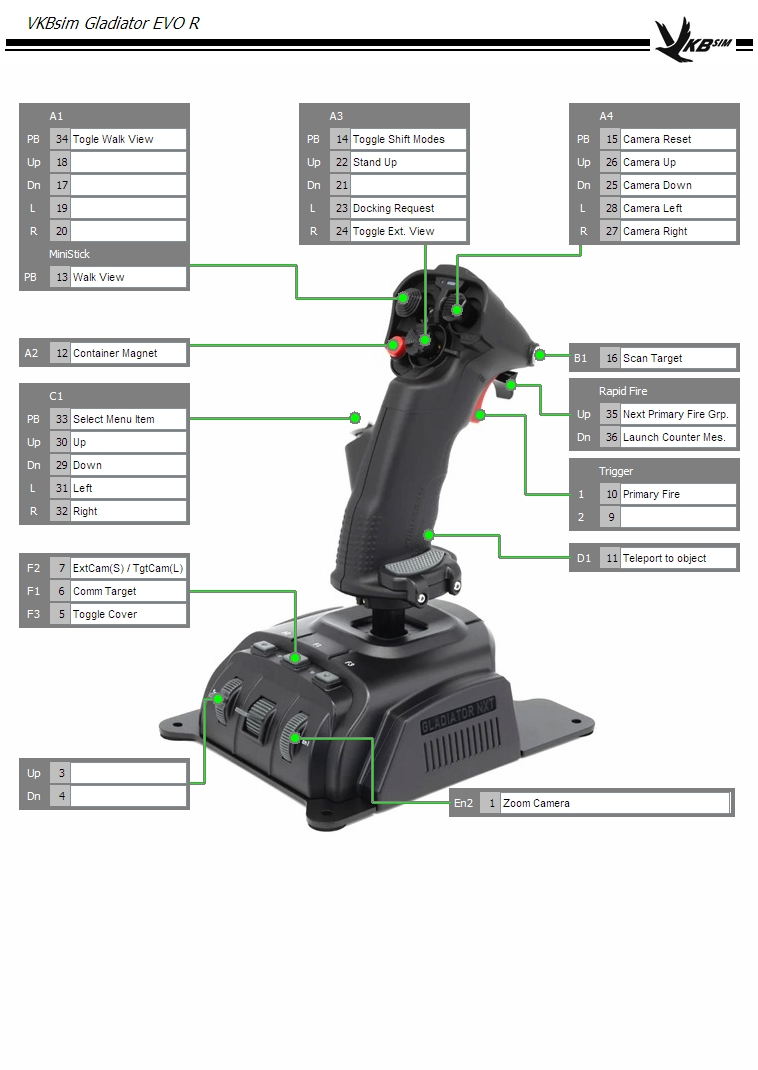
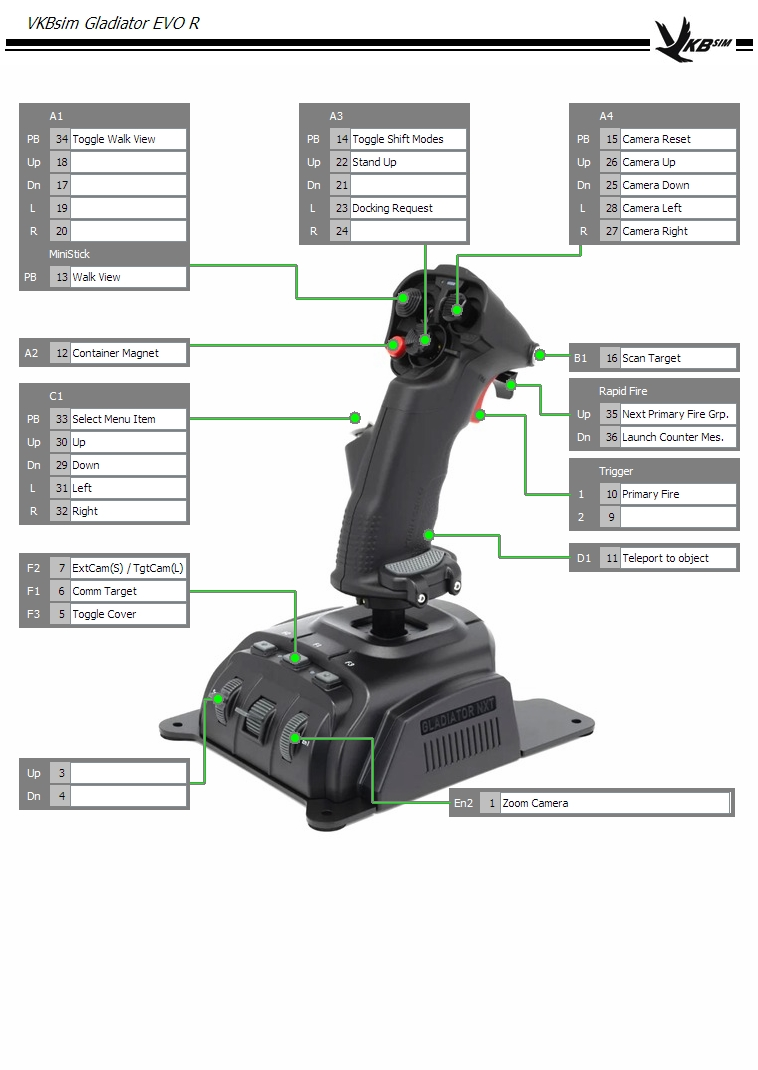
The latest and greatest

diff --git a/README.md b/README.md
@@ -2,26 +2,15 @@
 
 ## WARNING
 
-MAKE SURE YOU HAVE BACKUPS OF YOUR VKB CONFIG FILES AND X4 INPUT MAPS BEFORE YOU USE THESE SCRIPTS.  THE AUTHOR IS NOT RESPONSIBLE IF YOUR ONE AND ONLY COPY OF A FILE IS RUINED.
+MAKE SURE YOU HAVE BACKUPS OF YOUR VKB CONFIG FILES AND X4 INPUT MAPS BEFORE YOU USE THESE SCRIPTS OR FILES.  THE AUTHOR IS NOT RESPONSIBLE IF YOUR ONE AND ONLY COPY OF A FILE IS RUINED.
 
 ## Introduction
 
 This is my personal dual stick configuration of the [VKB Gladiator NTX EVO](https://www.vkbcontrollers.com/) joysticks for [X4: Foundations by Egosoft](https://www.egosoft.com).
 
-Many of the buttons on the sticks are not yet bound to in-game functions.  This is a work-in-progress and as I get more time with the sticks I will probably move things around.  See the CHANGELOG below for more details.
-
 This is built around two VKB Gladiator NTX EVO joysticks.  Both sticks use the premium grip.  The right hand stick is in the vertical configuration and used as the main directional stick.  The left hand stick is in the Omni Throttle configuration with the Y axis spring removed.
 
-I do not know if you can use my config files and apply them to the opposite hands without needing to modify it first.  If you can't, see the details below on how I've configured the sticks.
-
-## Conventions
-
-Here are some of the conventions I use in this README.
-
-- `[VKB]` -- References the VKB Joystick Configuration 
-- `[X4]` -- References the X4 input map 
-- `[FS]` -- Flight Stick 
-- `[TS]` -- Throttle Stick 
+You should be able to apply them to the opposite hands without needing to modify it first.  If you can't, see the details below on how I've configured the sticks.
 
 ## Instructions
 
@@ -45,177 +34,208 @@ In the X4 Controls menu use the Load Profile option to load the new configuratio
 
 ![Dual Stick X4 Configuration](./img/x4_controllers.jpg)
 
-### Scripts
+## Stick Configurations
 
-There are two scripts I wrote to help me move files around.  In the `.env_template` file you will see the environment variables used in the two scripts.  If you use `dotenv`, renaming this to `.env` and filling out the `replace_me` fields should allow you to use these scripts as well
+The X4 input map and the two VKB configuration files are intended to work together.  I've used the VKB configuration software to enable features such as tempo buttons (long press & short press do different things) and Shift Modes for even more options for the physical buttons.
 
-`copy_from_local.sh` Is used to copy the VKB config and X4 Input map from my local machine folders to the source code folder.  I used this after I make changes and want to sync this to GitHub.
+### Left Hand
 
-`copy_to_local.sh` Is used this to copy the files from the source code folder into place on my local machine.  It will attempt to create a time stamp backup in your destination folder before copying the files.
+I am going to assume that your Y axis spring has been removed and you are using this as a throttle.  In dead center the LED should flash RED.  Outside of dead center it should be solid green.
 
-## Configuration
+In the VKB sick configuration I've configured the throttle curve to slow down near center so we have better fine control of the throttle at low speeds like when docking.  It should feel a little "sticky" at zero.
 
-### VKB
+!["Throttle Curve Diagram"](img/VKB_axis_curve.png)
 
-#### Right Hand (Flight Control)
+Overall the left hand stick is fairly straight forward.  It focuses on target management and ship mode toggling.  I'm moving left to right as if you are viewing the left hand throttle stick.
 
-!["Flight Stick Configuration"](img/vkb_right_hand.png)
+Note: The image is a right-handed one, but the HAT configurations should match what is printed on the throttle housing.
 
-|Cell|Button|Virtual Button(s)|Function|Notes|
-|---|---|---|---|---|
-|Line 8 / Reg 2|B1|#16, #41|Tempo 2, short #16, long #41||
-|Line 6 / Reg 2|A3 Push|#14|Cycle Modes 00 -> 01 -> 02|The RGB LED switches Blue -> Green -> Red per mode|
-|Line 5 / Reg 3|A3 Down|#21, #49, #53|Modes 00 -> 01 -> 02||
-|Line 6 / Reg 3|A3 Up|#22, #50, #54|Modes 00 -> 01 -> 02||
-|Line 7 / Reg 3|A3 Left|#23, #51, #55|Modes 00 -> 01 -> 02||
-|Line 8 / Reg 3|A3 Right|#24, #52, #56|Modes 00 -> 01 -> 02||
+#### A4 HAT
 
-##### Description
+The A4 HAT focuses on basic targeting functions.  Pressing up will target objects the same way the `T` key does, so YMMV on how accurate it is.  Pressing the stick in will deselect your target.  Learn to leveraging the guidance toggle and the auto pilot toggle for quick navigation.
 
-There are two main changes on the flight stick.  
+- `Press` -- Deselects your target
+- `Up` -- Attempts to target what ever is in front of you `T` key style
+- `Down` -- Target the nearest enemy
+- `Left` -- Toggle AutoPilot
+- `Right` -- Toggle Guidance
 
-First, `B1` is a Tempo button with short and long configured as two virtual buttons.
+#### A3 HAT
 
-Second, `A3 Push` cycles through all three shift modes.  I'll go into further detail about the 3 modes in the X4 configuration section.  Shift mode 0 (default) has the led blue, Shift mode 1 will change the led to Green and is used for civilian deployables. Shift mode 2 will change the led to red and is used for combat deployables and orders.
+This center hat is all about ship mode management.  It has got the 4 main ship modes mapped one in each direction.  
 
-#### Left Hand (Throttle Control)
+Pressing in on the A3 HAT toggles flight assist.  As of the 7.5 Flight Model update I do not use flight assist nearly as much as I used to, but it is here for quick easy access for sick moves.
 
-!["Throttle Stick Configuration"](img/vkb_left_hand.png)
+- `Press` -- Toggle Flight Assist
+- `Up` -- Short Range Scan
+- `Down` -- Long Range Scan
+- `Right` -- SETA
 
-|Cell|Button|Virtual Button(s)|Function|Notes|
-|---|---|---|---|---|
-|Line 4 / Reg 2|A2|#12, #41|Tempo 2, short #12, long #41||
+#### A1 HAT
 
-Additionally the RGB LED is configured to flash red when the Y axis is in the center and solid green when it is not.  This has the effect that when your ship throttle is set to 0 you see a flashing red light and solid green while in motion.  I'm able to see the flashing in my peripheral vision so I've found this to be a useful indicator.
+This HAT is focused on advanced targeting options and walking.  Press the stick down to toggle walking mode on and off.  The small circular led will light up red when in walking mode.  The stick should then act like any controller stick in a FPS game.
 
-### X4: Foundations InputMap
+- `Press` -- Toggle walking mode
+- `Up` -- Next Target
+- `Down` -- Previous Target
+- `Left` -- Next Ship Component
+- `Right` -- Previous Ship Component
 
-My overall philosophy was to try and find a control scheme that allowed for great flight controls and made first person movement a breeze from the sticks.  On top of that, I've tried to group buttons and functions together as logically as I can.  I leverage Shift Modes to achieve some of these grouping.  I've tried to put my most common controls in locations for the easiest access.
+#### A2 Button
 
-On the left hand stick `D1` (pinkie) is mapped to Pause.  The fact that X4 allows you to pause at any time and issue orders via the map, makes this placement very convenient for very regular use.  
+`Short press` this button to stop engines.
 
-If you aren't pausing your game in the middle of a dogfight because you suddenly had a great idea for a good station to build, then are you REALLY an X4: Foundations player? 🤣
+`Long press` and hold this button to engage engine boost.
 
-#### General UI
+#### B1 Button
 
-These will get repeated below, but I'm going to call them out here as well.
+Match your target's speed.  Don't forget that this also works while in travel drive!
 
-On the right hand stick the `A2` is your primary interact/action/left-mouse-click button.
+#### C1 HAT
 
-On the right hand stick the `B1` is use to back out of your current menu.
+Currently un-used
 
-The `C1 Hat` directions are used to navigate around menus.  Combine this with `A2` and you should be flying through the UI in no-time.
+#### Rapid Fire Switch
 
-#### First Person Movement And Interactions
+- `Up` -- This will cycle through the secondary fire groups
+- `Down` -- This will load the next ammunition (missiles) type
 
-I've attempted to create a configuration that should feel natural to anyone who plays FPS games with game console controllers.
+#### Trigger
 
-If you click the `A1 HAT` switch on both the left and right controllers it will put these two sticks into analog mode.  The small red led indicator light should be turned on.  I've configured movement and your head movement on these two sticks to be the same as you would find in just about any First Person Shooter using an X-Box or PlayStation controller.  If you regularly play these types of games using a controller, then using your thumbs on these two sticks should feel pretty natural.
+This is the secondary fire button.  Use this for firing your secondary weapons, and hold when in long range scan mode to charge up the scan ping.  When walking, pull the trigger once to start running.
 
-Feel free to invert axis and tweak sensitivity to your liking.  Just be aware that if you ever download an updated version of my configs to use, you'll have to reconfigure those to your preferences.
+#### D1 Button
 
-The `A2` button on the right stick is mapped to interact.  Consider this your replacement for your regular mouse click.  Use this to talk to people, use elevators, and just about anywhere that you'd reach over to your mouse to click.
+This button will pause the game.
 
-The `B1` button can be used to back out of menus.  Consider it the same a the `ESC`.
+#### F Buttons
 
-Using the `C1 Hat` directions, you should be able to successfully walk up to the trade desk at any station, ask to see wares, buy and sell something, and then leave all without ever having to move your hands to your mouse.
+- `F2` -- This will cycle through the radar modes
+- `F1` -- This will toggle the slow time game option (see the accessibility options for more)
+- `F3` -- Quick Save -- USE FREQUENTLY!
 
-#### Map
+#### Sw1
 
-I've decided that trying to make an optimal map configuration is just not something I am interested in.  I use the mouse for the map because it is just way more natural.
+This switch will zoom in and out with the Video Enhancement Goggles
 
-#### Flight
+#### Left Stick Diagram
 
-##### Movement Basics
+!["Left Hand Stick Diagram"](img/left.png)
 
-The right hand stick is used for flight.  The Y axis is mapped to pitch, the X axis is mapped to roll, and the Z rotation on the handle is mapped to yaw.  This should be standard for most flight simulations.  
+### Right Hand
 
-The left hand stick is used for throttle and strafing.  I've removed the Y axis spring so that the dry clutch converts this axis into a throttle.  
+The right hand stick has a few more things going on.  The primary difference is that there are multiple modes that the A3 HAT can be in.  Each mode tries to group similar function together.
 
-Y axis is throttle positive and negative.  The RGB leg will flash red in the zero position to indicate you've stopped.  Solid green indicates you are under thrust.
+Starting left to right as if we are looking at the stick.
 
-X axis will do left/right strafing.  The Z handle rotation for up/down.
+#### A1 HAT
 
-On the left hand stick `A2` is configured as a Tempo button.  Short press will turn off engines (full stop) and long press engages the boost.
+Press in on this hat to enable view mode similar to using a controller in FPS mode.  I personally don't use this much.  I tend to move my hand over to my mouse when walking around.
 
-On the left hand stick `C1 Hat Press` will toggle Flight Assist.  Use this to pull sick drifts in travel drive mode.
+#### A3 HAT
 
-##### Ship Modes
+Press the center of the A3 HAT to cycle between the three modes.
 
-Use the `C1 Hat` directions to toggle the various ship modes.  
+The LED on the stick will light up according to which mode you are in.
 
-- `Left` -- Travel Drive
-- `Up` -- Scan Mode
-- `Down` -- Long Range Scan Mode
-- `Right` -- Seta
+- `Mode 1` -- Blue LED
+- `Mode 2` -- Green LED
+- `Mode 3` -- Red LED
 
-Note: In the Omni Throttle angled configuration this actually places the `Left` direction in much more of an `Up` direction and this makes it very easy to use your thumb to switch into this mode.  Travel is my most common mode and I suspect it is yours as well.
+##### Mode 1 BLUE
 
-- `C1 Hat Press` toggles flight assist.
-- Left hand `Main Trigger` hold and release while in Long Range Scan mode to send out a ping.
-- Right hand `B1` short press triggers Ship Scan.
+This is the default mode and is for basic commands.
 
-##### Targeting
+- `Press` -- Toggle modes
+- `Up` -- Stand Up
+- `Left` -- Request Docking while flying and Fast Travel when walking
 
-The left hand `A4 Hat` directions perform the following targeting options.
+##### Mode 2 Green
 
-- `Up` -- Target object
-- `Down` -- Target nearest enemy
-- `Left` -- Engage Autopilot
-- `Right` -- Set Guidance
-- `Press` -- Deselect Target
+This mode is focused around civilian deployment commands.
 
-Note: In the Omni Throttle configuration `Left` is in more of an `Up` direction.  
+- `Press` -- Toggle modes
+- `Up` -- Launch a resource probe
+- `Down` -- Repeat the last civilian deployment
+- `Left` -- Launch Navigation Beacon
+- `Right` -- Launch Satellite
 
-With this configuration you could be able to `Up` to target a station or ship, `Right` to set guidance to it (the Yellow highlight box) and then `Left` to trigger auto-pilot to take you there.
+##### Mode 3 Red
 
-##### Combat
+This mode is focused around combat commands.
 
-Note: I haven't been able to figure out a way to configure the Fire Button 2 to anything within the X4 ui.  So for now I have them unmapped.  I'm still trying to figure out where they'd be useful as well.  Right now the only good idea I have is triggering space suit bombs, but even then I'm not sure.
+- `Press` -- Toggle modes
+- `Up` -- Short press to have you wingman attack your target, long press to have them resume their duties
+- `Down` -- Short press to launch a laser tower, long press to launch a mine
+- `Left` -- Toggles Drones
+- `Right` -- Toggles Turrets
 
-The main trigger buttons for both sticks are mapped to Primary and Secondary fire.  Right hand is primary, and left hand is secondary.  While in long range scan mode, the left hand trigger performs the release and hold ping.
+#### A4 HAT
 
-On the right hand and left hand sticks, rapid fire `Up` will cycle through the associated primary and secondary weapon groups.  
+This HAT is camera controls.  Use it in external view modes.  Press in on the stick to reset the camera to default view.
 
-On the right hand stick, rapid fire `Down` will release countermeasures.
+#### A2 Button
 
-On the left hand stick, rapid fire `Down` will load the next missile type.  
+`Hold` for the container magnet.
 
-After combat, long pressing the `B1` Tempo button engages the container magnet.
+#### B1 Button
 
-##### Right Hand A3 Modes
+In short range scan mode, scan your target.
 
-I decided to use the right hand `A3 Hat` for 3 separate modes focused around deployables and commands in different situations.  Center clicking the `A3 Hat` will cycle between modes 00 -> 01 -> 02.
+Note: There is another long press button mapped in the controller config, but is currently not mapped to anything in the game.
 
-To help you I've configured each mode to display a different color.  Mode 00 is blue, 01 is green, and 02 is red.
+#### C1 HAT
 
-Mode 00 General
+This HAT is for UI interaction.  Press the HAT to select menu items.  Use the directions to move around.  Pressing the HAT will also answer comms requests.
 
-- `Left` -- Request Docking / Undocking
-- `Up` -- Get Up
-- `Right` -- Toggle Ext. View
+There are one or two menu items that don't want to seem to have their OK button triggered, but I can't figure out why.  You may run into this.
 
-Mode 01 is green and focused on civilian deployables.  
+#### Rapid Fire
 
-- `Left` -- Navigation Beacon
-- `Up` -- Resource Probe
-- `Right` -- Satellite
-- `Down` -- Repeat last civilian deployment
+- `Up`-- Next Primary Fire Group
+- `Down` -- Launch Counter Measures
 
-Mode 02 is red and focused on combat orders and deployables.
+#### Trigger
 
-- `Left` -- Toggle Drone Deployment
-- `Up` -- Wingman attack target
-- `Right` -- Toggle Turret Arming
-- `Down` `Short` -- Deploy Laser Tower
-- `Down` `Long` -- Deploy Mine
+> __Pew! Pew!__ -- Boso Ta
 
-`Down` is a tempo button in Mode 02.  A short press will drop a laser tower and a long press will drop a mine.
 
-I tend to toggle turrets a lot when I'm in M sized ships when I'm close to NPC stations or larger ships to help prevent splash damage and reputation loss.
+#### D1 Button
+
+Once you have teleportation unlocked, this will teleport you to your current target (provided you have permission).
+
+#### F Buttons
+
+- `F2` -- Short press for external view.  Long press for Target view.  Short press again to return to cockpit view.
+- `F1` -- Comm your target
+- `F3` -- If your ship is equipped with a cover mod, this will toggle it
+
+#### En1
+
+(It says En2 in the diagram for some reason)
+
+This controls the camera zoom level when in external or target view.
+
+#### Right Stick Diagrams
+
+Mode 1
+
+!["Right Hand Stick Diagram Mode 1"](img/right_mode_1.png)
+
+Mode 2
+
+!["Right Hand Stick Diagram Mode 2"](img/right_mode_2.png)
+
+Mode 3
+
+!["Right Hand Stick Diagram Mode 3"](img/right_mode_3.png)
 
 ## Changelog
 
+- 2025.06.21 -- Updated for 7.6
+  - __UPDATE__ Capture tweaks from the last year
+  - __NEW__ -- VKB Diagrams
+  - __CHANGE__ -- Overhaul README
 - 2024.07.09 -- And they call it a mine!
   - `[VKB] [FS]` Added a boolean for virtual button 53 so that it is now a tempo button in Shift Mode 2 (combat)
   - `[X4] [FS]` Added short down press in combat mode to deploy laser tower
